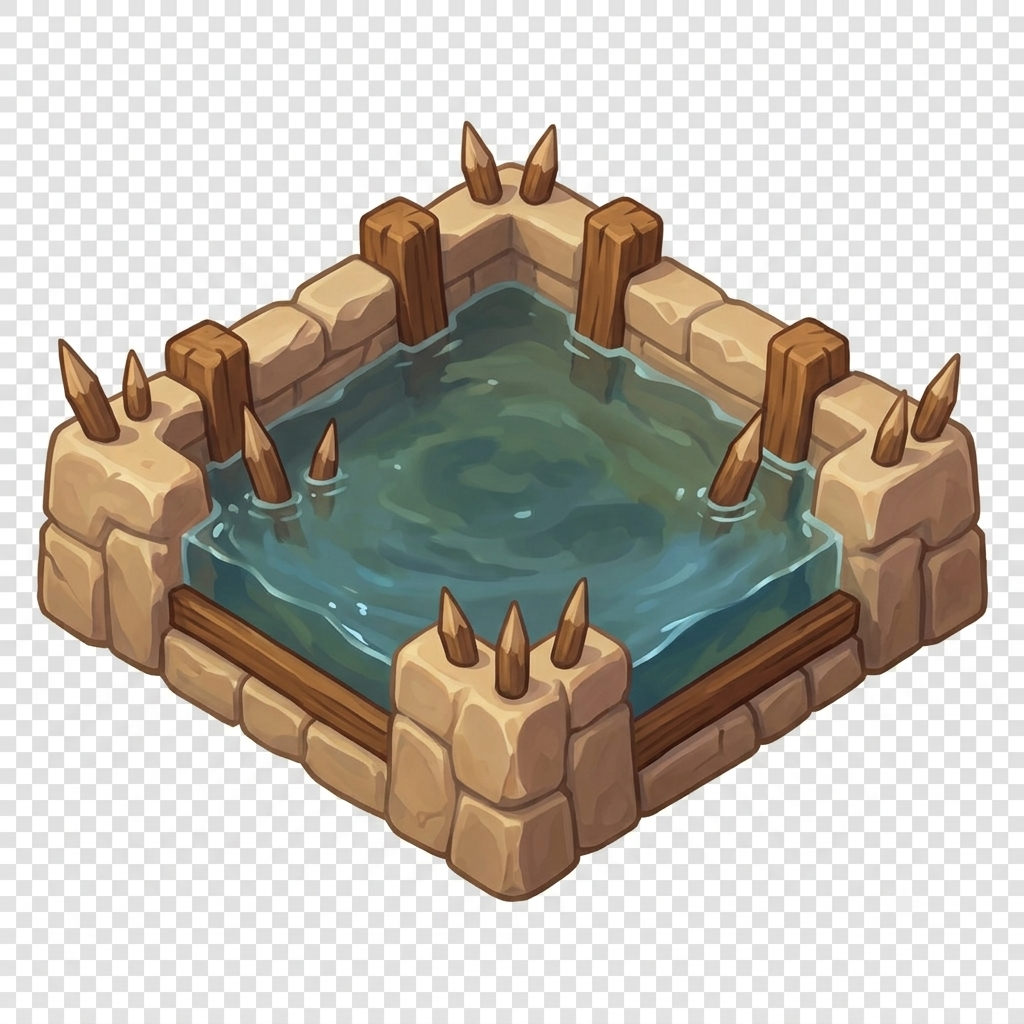
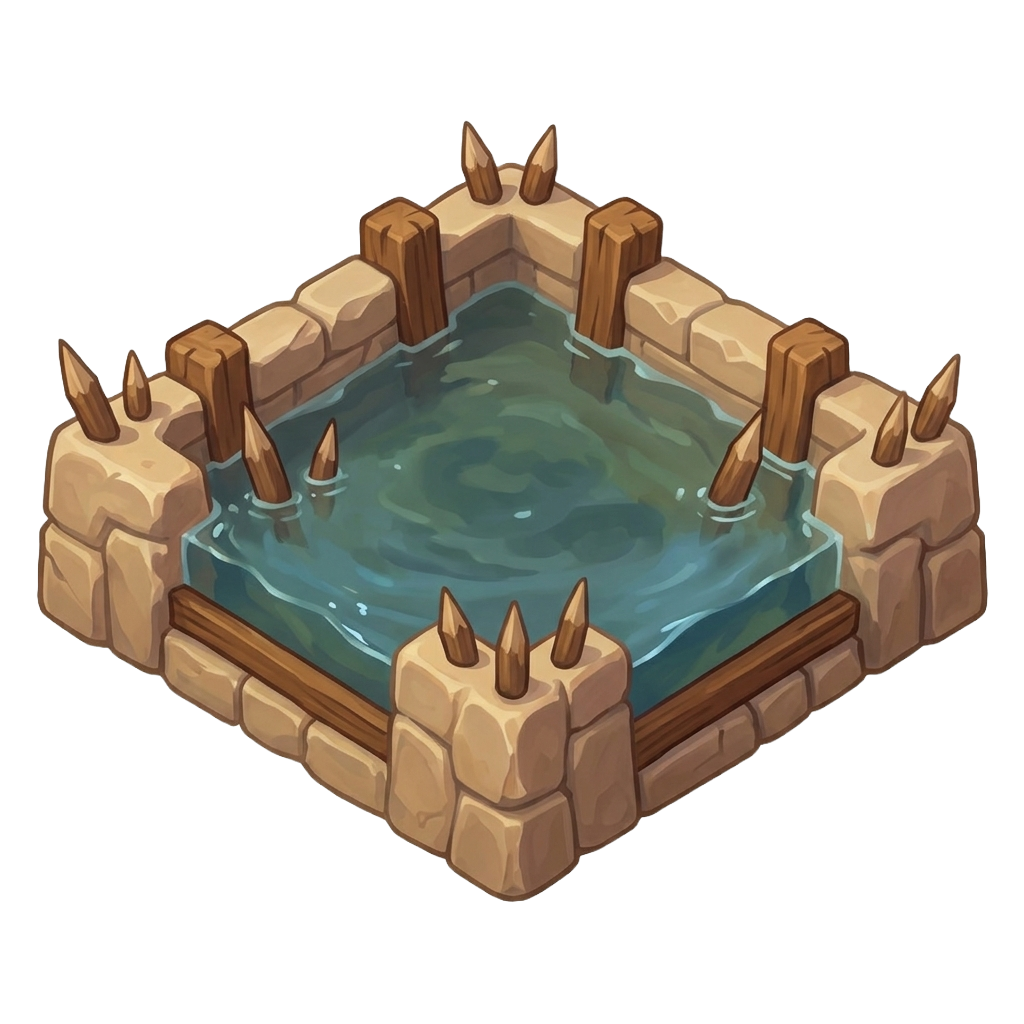
Visual: moat (Hendek) PNG sprite - ranger kalibi, olcek+oturma ayarli

Changed region(s): [[0.0, 0.0, 1.0, 1.0]]

diff --git a/index.html b/index.html
@@ -1934,13 +1934,13 @@ class Building {
       // --- MOAT (Hendek): PNG sprite (emoji yok) ---
       if (MOAT_SPR.ready) {
         const iw = MOAT_SPR.img.width, ih = MOAT_SPR.img.height;
-        const drawW = 60 * s;                    // hendek geniş/yassı: ranger'dan biraz büyük taban
+        const drawW = 46 * s;                    // hendek geniş/yassı: ranger'dan biraz büyük taban
         const drawH = drawW * (ih / iw);         // en-boy oranı korunur
         ctx.save();
         ctx.filter = 'brightness(1.05) saturate(1.1)';
         ctx.imageSmoothingEnabled = true;
         ctx.imageSmoothingQuality = 'high';
-        ctx.drawImage(MOAT_SPR.img, x - drawW / 2, cy - drawH * 0.5, drawW, drawH); // yassı yapı: dikey offset 0.5 (ranger 0.62 idi)
+        ctx.drawImage(MOAT_SPR.img, x - drawW / 2, cy - drawH * 0.47, drawW, drawH); // yassı yapı: dikey offset 0.47 (zemine oturur)
         ctx.restore();
       } else {
         // Henuz yuklenmediyse: generic emoji cizimine guvenli dusus (spr/sz zaten hazir)